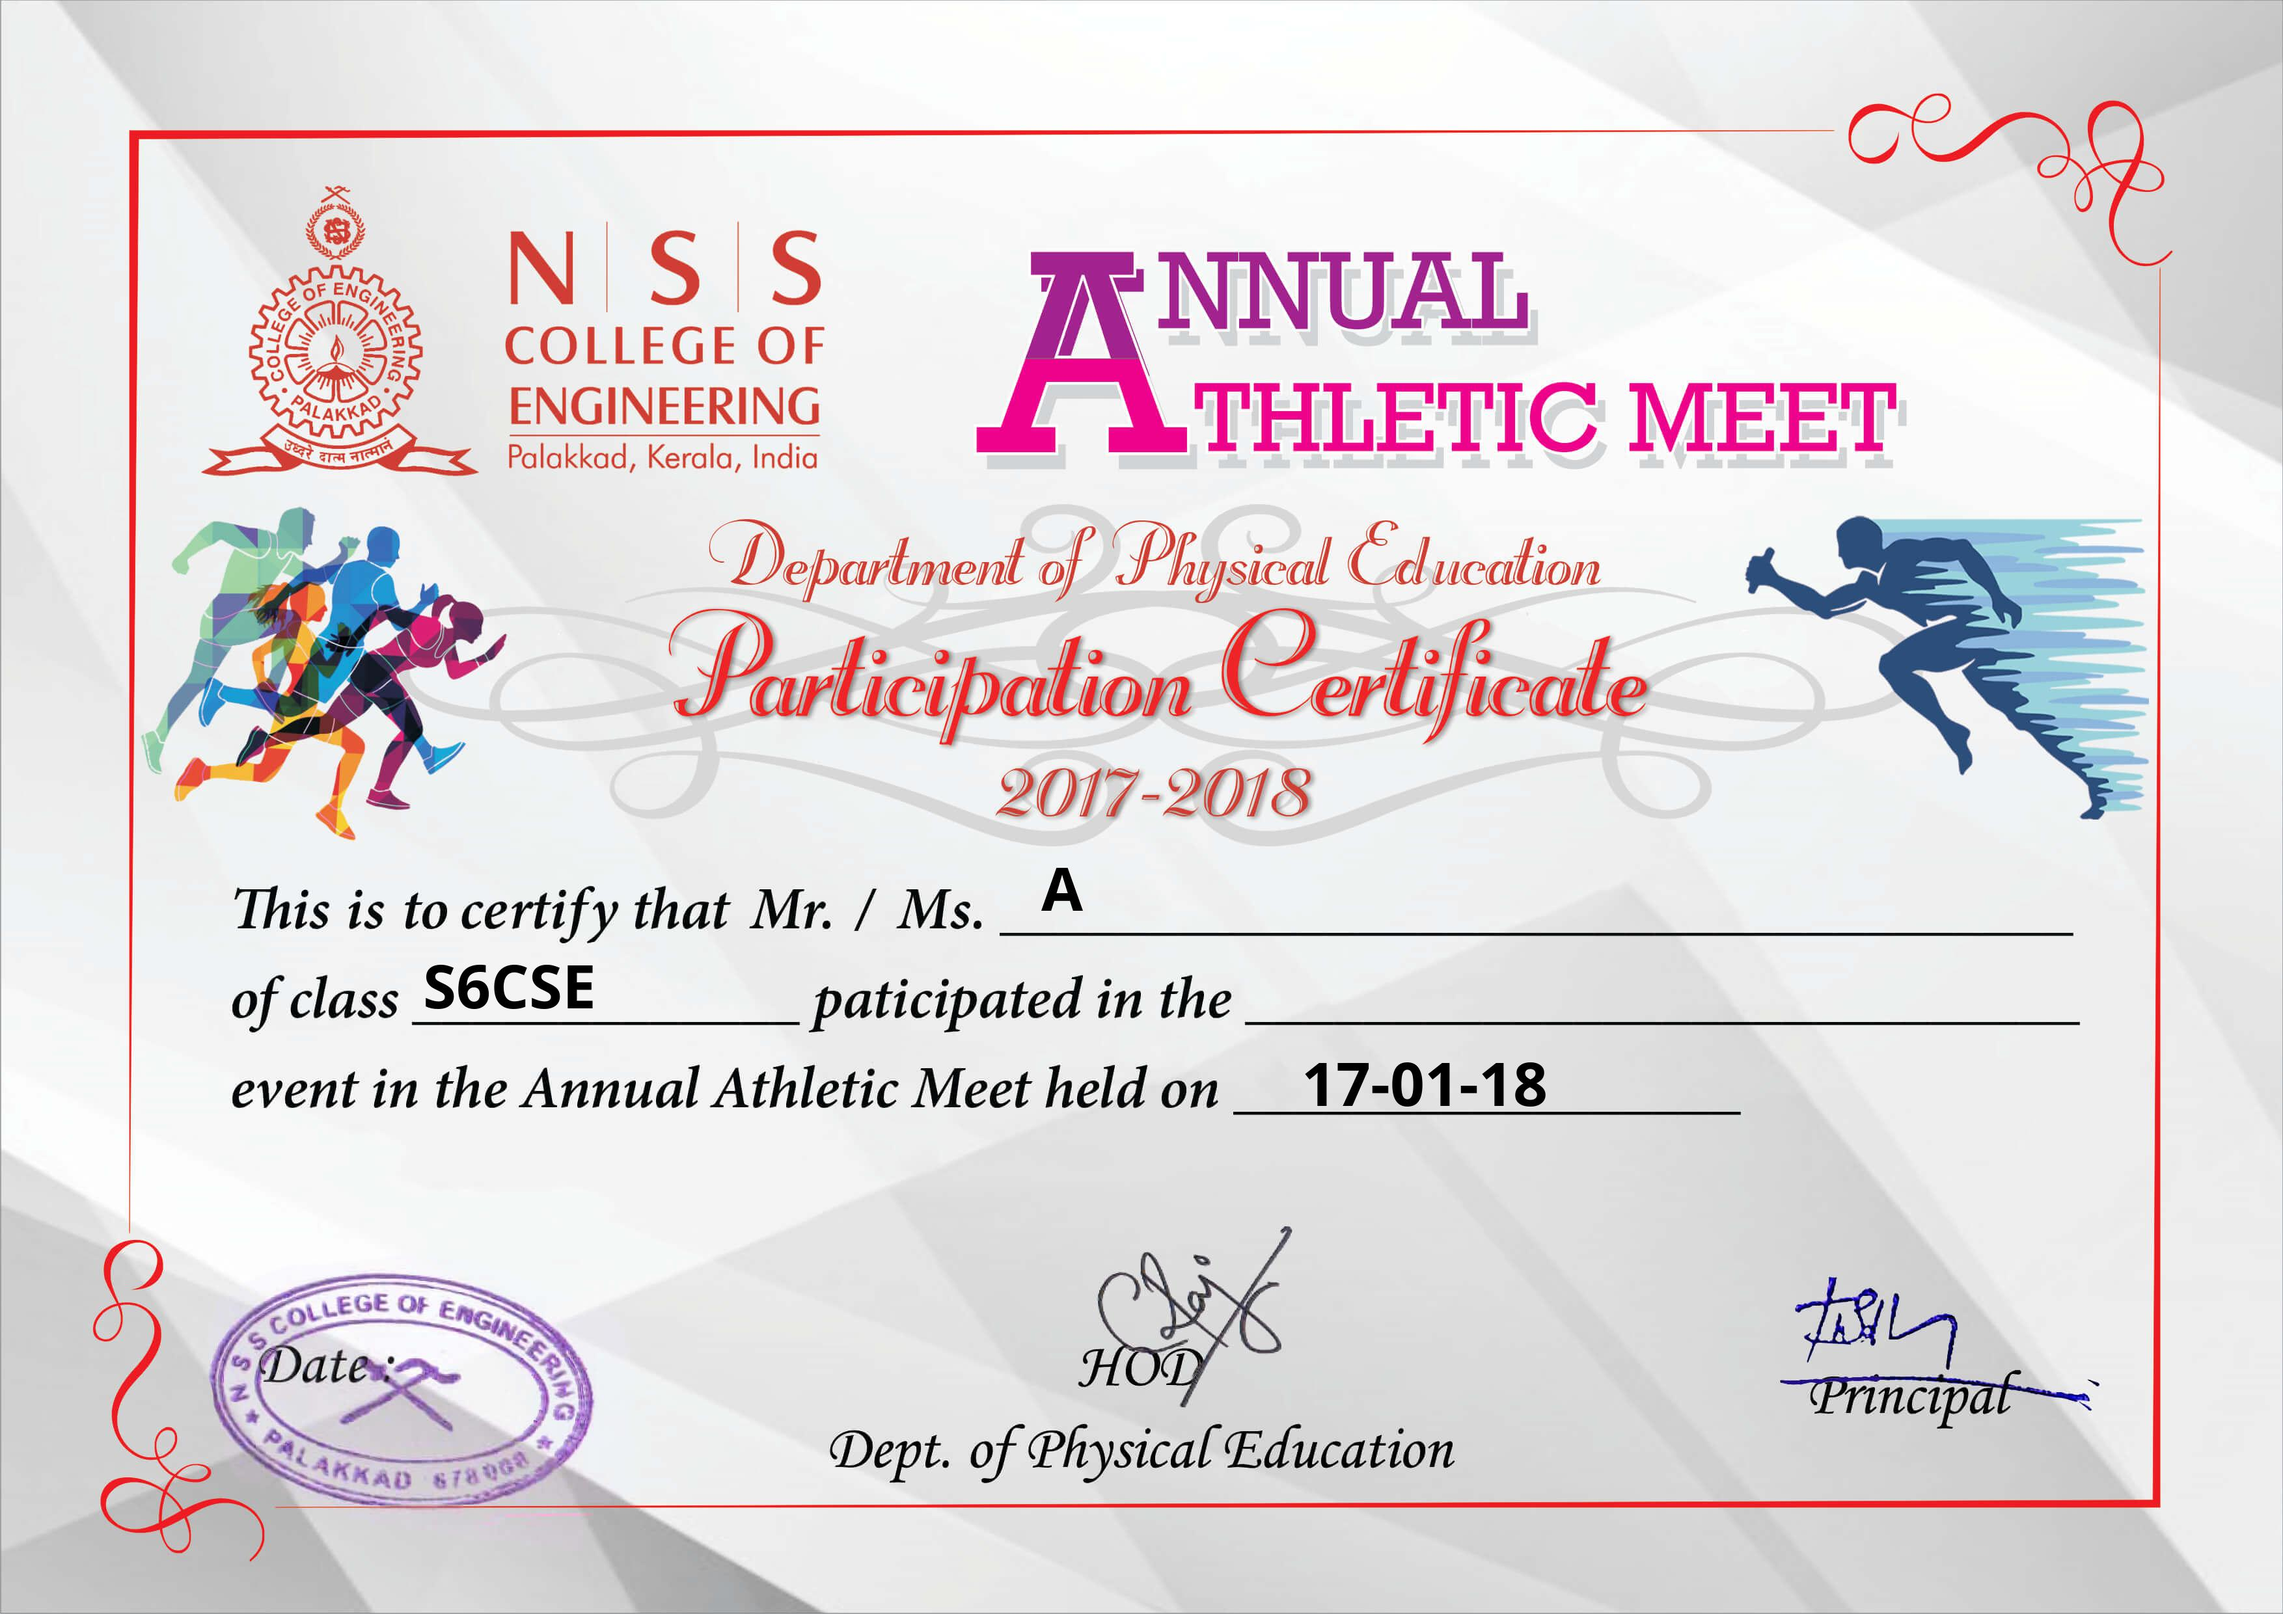
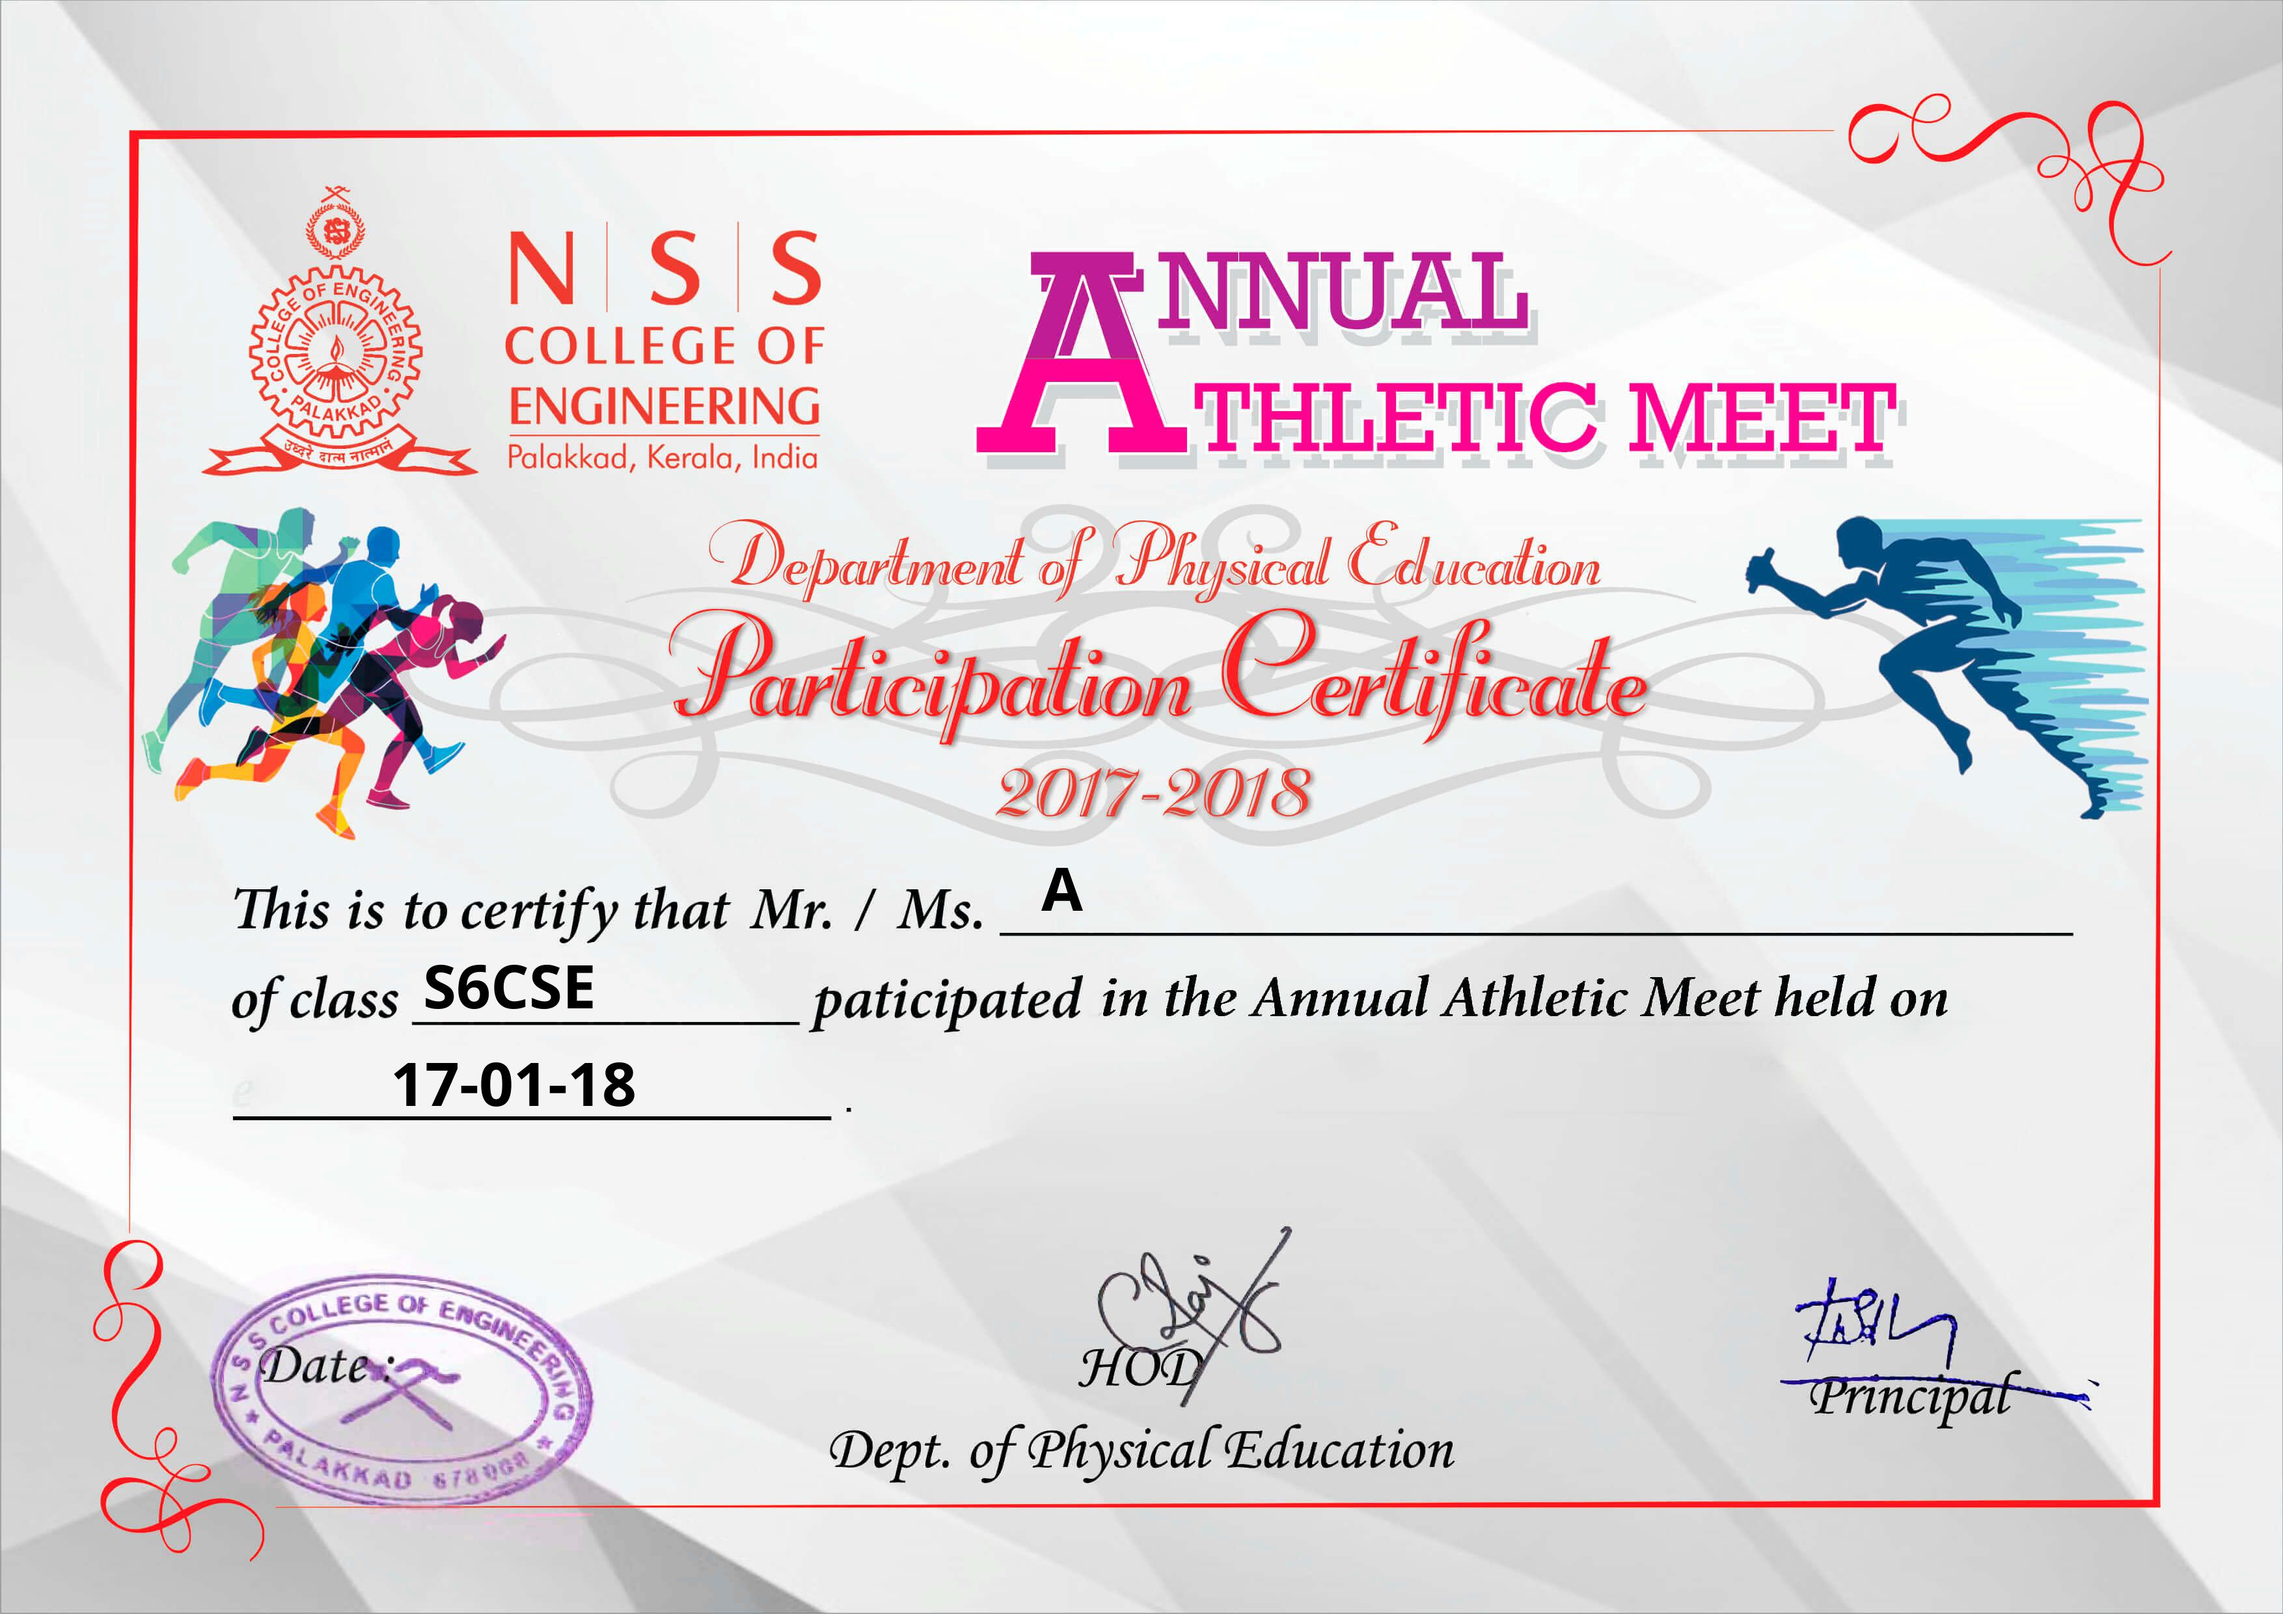
Changed Certificate

diff --git a/generate.php b/generate.php
@@ -13,7 +13,7 @@
       imagettftext($jpg_image, 70, 0, 1600, 1400, $colour, $font_path, $text1);
       imagettftext($jpg_image, 70, 0, 650, 1550, $colour, $font_path, $text2);
     //  imagettftext($jpg_image, 70, 0, 2100, 1550, $colour, $font_path, $text3);
-      imagettftext($jpg_image, 70, 0, 2000, 1700, $colour, $font_path, $text4);
+      imagettftext($jpg_image, 70, 0, 600, 1700, $colour, $font_path, $text4);
       if(imagejpeg($jpg_image,"certificates/".$text1."_".$text2."_".$text3.".jpg"))
       {
             echo "Success";
